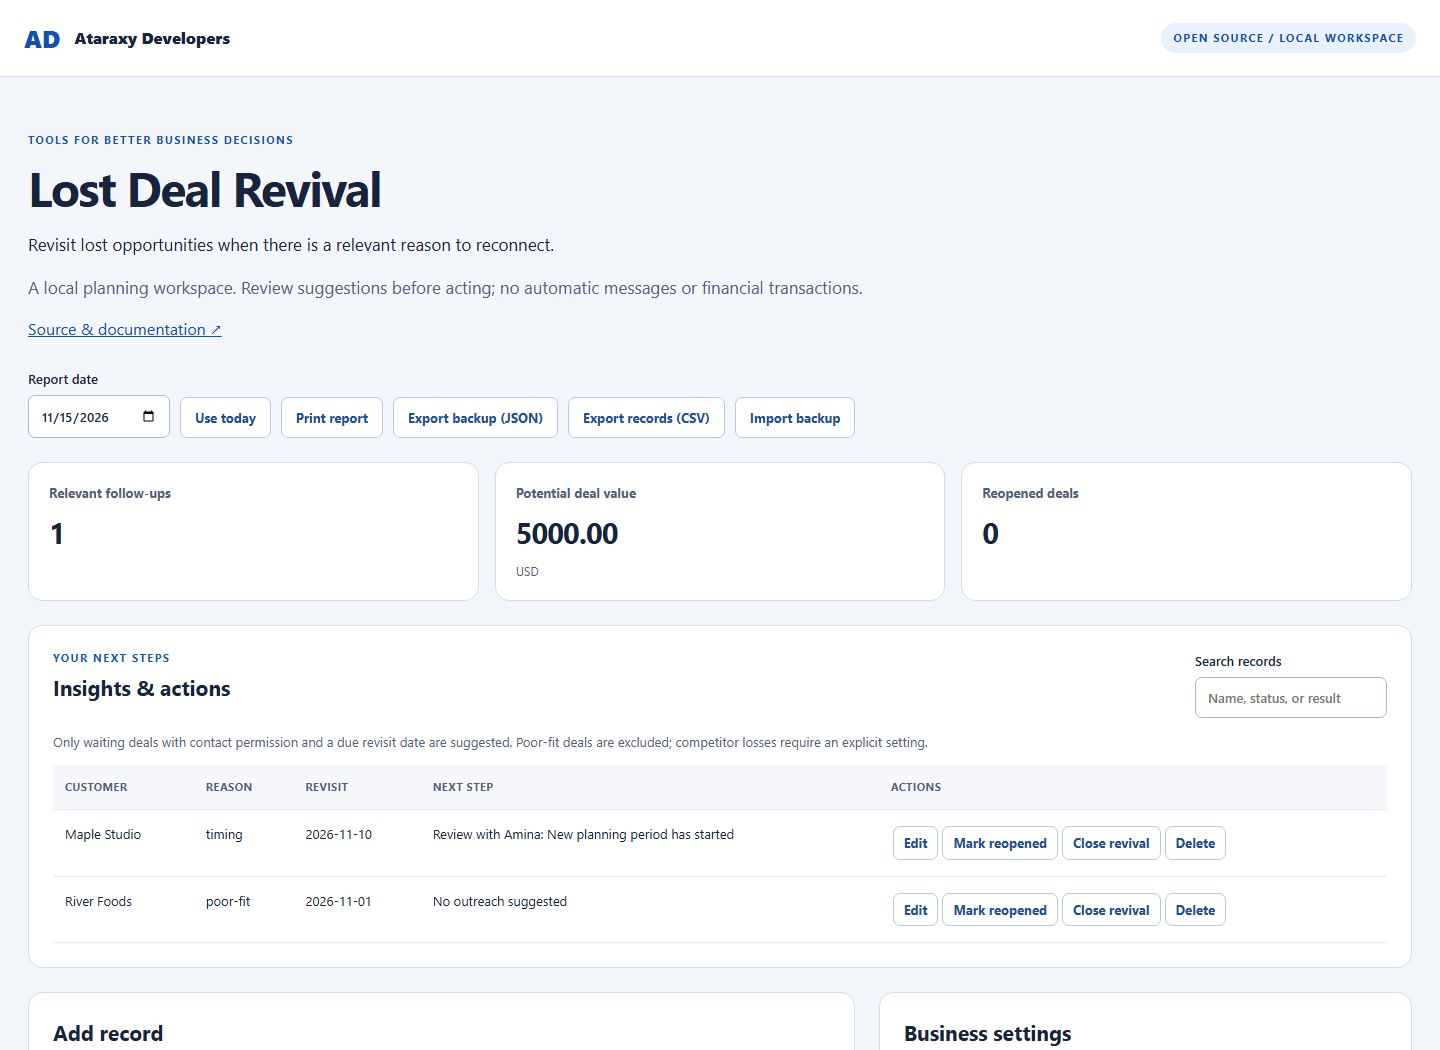
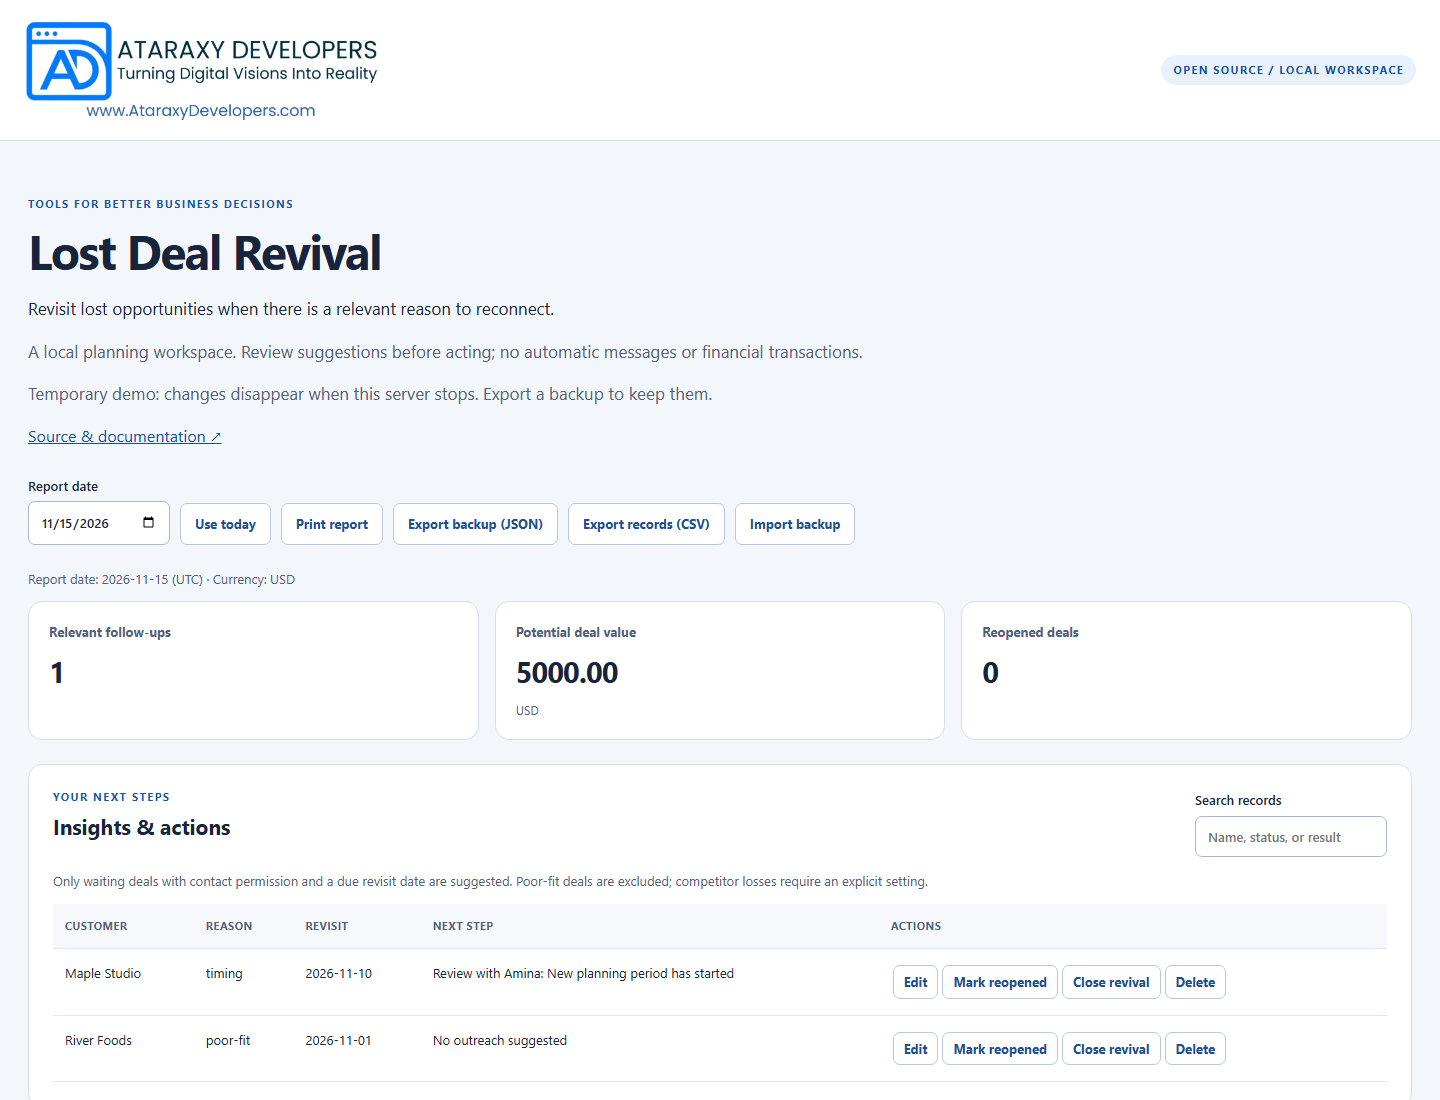
Use approved Ataraxy Developers branding

diff --git a/public/index.html b/public/index.html
@@ -4,16 +4,14 @@
     <meta charset="utf-8" />
     <meta name="viewport" content="width=device-width,initial-scale=1" />
     <title>Business workspace · Ataraxy Developers</title>
-    <link rel="icon" href="/favicon.svg" />
+    <link rel="icon" href="/ataraxy-developers-logo.png" type="image/png" />
     <link rel="stylesheet" href="/style.css" />
     <script type="module" src="/app.js"></script>
   </head>
   <body>
     <a class="skip" href="#main">Skip to workspace</a>
     <header>
-      <a class="brand" href="https://ataraxydevelopers.com"
-        >AD <span>Ataraxy Developers</span></a
-      ><span class="badge">OPEN SOURCE / LOCAL WORKSPACE</span>
+      <a class="brand" href="https://ataraxydevelopers.com"><img src="/ataraxy-developers-logo.png" alt="Ataraxy Developers — Turning Digital Visions Into Reality" width="1127" height="313" /></a><span class="badge">OPEN SOURCE / LOCAL WORKSPACE</span>
     </header>
     <main id="main">
       <section class="hero">

diff --git a/public/style.css b/public/style.css
@@ -40,10 +40,6 @@ header {
   font-weight: 800;
   text-decoration: none;
 }
-.brand span {
-  font-size: 16px;
-  color: #17243b;
-}
 .badge,
 .eyebrow {
   font-size: 11px;
@@ -364,3 +360,9 @@ footer {
     font-size: 27px;
   }
 }
+
+/* Use the complete, original company artwork without distortion. */
+header { flex-wrap: wrap; gap: 16px; background: #fff; }
+.brand { display: block; flex: 0 1 360px; min-width: 0; max-width: 100%; background: #fff; }
+.brand img { display: block; width: 360px; max-width: 100%; height: auto; }
+@media (max-width: 600px) { header { padding: 18px 20px; } .brand { flex-basis: 360px; } }

diff --git a/BRANDING.md b/BRANDING.md
@@ -1,0 +1,10 @@
+# Ataraxy Developers branding
+
+The company-approved logo is [public/ataraxy-developers-logo.png](public/ataraxy-developers-logo.png). It is the original PNG supplied by Ataraxy Developers on 2026-11-16, unchanged.
+
+- Preserve the complete artwork, its aspect ratio, and its white background.
+- Do not redraw it or substitute typed initials, an invented monogram, or generated artwork.
+- Use readable sizing and descriptive alternative text.
+- Capture screenshots from the working interface after this logo has loaded.
+
+SHA-256: 87ebc5a0092af0fff4524e805730ca3dc97c4483bd49f866528b8cdb97d422e7

diff --git a/README.md b/README.md
@@ -1,3 +1,5 @@
+<p><a href="https://ataraxydevelopers.com"><img src="public/ataraxy-developers-logo.png" alt="Ataraxy Developers — Turning Digital Visions Into Reality" width="520"></a></p>
+
 # Lost Deal Revival
 
 [![CI](https://github.com/AtaraxyDevelopers/lost-deal-revival/actions/workflows/ci.yml/badge.svg)](https://github.com/AtaraxyDevelopers/lost-deal-revival/actions/workflows/ci.yml)

diff --git a/CHANGELOG.md b/CHANGELOG.md
@@ -1,5 +1,9 @@
 # Changelog
 
+## 0.1.2 — 2026-11-16
+
+Use the original, approved Ataraxy Developers logo and document its source. Update the interface and browser icon, serve the PNG correctly, and replace the README screenshot with a capture of the corrected app.
+
 ## 0.1.1
 
 - Correct optional date defaults when adding records.
